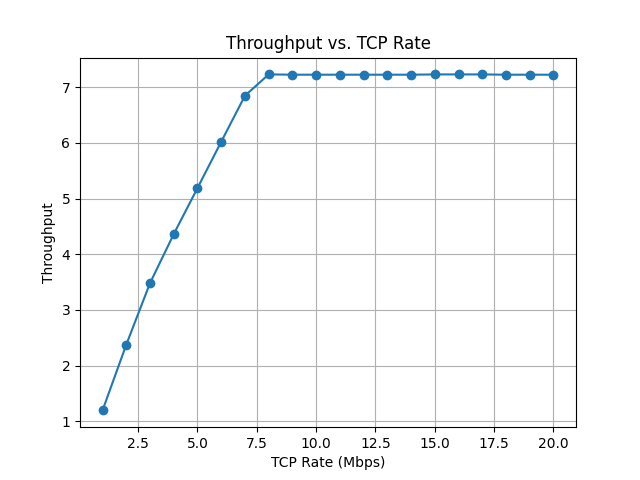
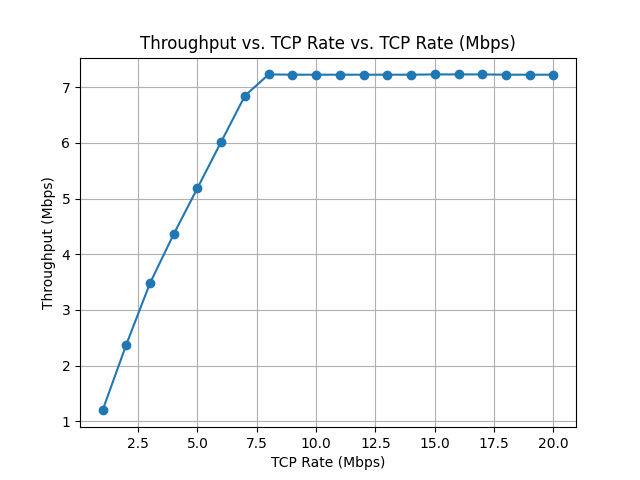
add the figures

Changed region(s): [[0.2188, 0.0625, 0.8125, 0.125], [0.0625, 0.375, 0.0938, 0.6562]]

diff --git a/experiment/01_result/data_process.py b/experiment/01_result/data_process.py
@@ -51,12 +51,24 @@ def process_data(data, qos_parameter):
 
 def plot_figure(x, y, xlabel, ylabel, title, filename):
     plt.plot(x, y, marker='o')
-    plt.xlabel(xlabel)
-    plt.ylabel(ylabel)
-    plt.title(title)
+    plt.xlabel(f'{xlabel} (Mbps)')
+    plt.ylabel(f'{ylabel}')
+    plt.title(f'{title} vs. {xlabel} (Mbps)')
     plt.grid(True)
     plt.savefig(filename)
     plt.close()
+
+def get_unit(qos_parameter):
+    if qos_parameter == 'Throughput':
+        return 'Mbps'
+    elif qos_parameter == 'Transmission Delay':
+        return 'e+07ns'
+    elif qos_parameter == 'Packet Loss Rate':
+        return ''
+    elif qos_parameter == 'Jitter':
+        return 'ns'
+    else:
+        return 'units'
 
 if __name__ == "__main__":
     file_path = "ATCN-Program-Tcprate.txt"
@@ -64,5 +76,6 @@ if __name__ == "__main__":
     #print(data)
     for qos_parameter in ['Throughput', 'Transmission Delay', 'Packet Loss Rate', 'Jitter']:
         tcp_rates, qos_values = process_data(data, qos_parameter)
+        unit = get_unit(qos_parameter)  # Implement get_unit function based on your requirements
         plot_filename = f'{qos_parameter}_vs_TCP_Rate.png'
-        plot_figure(tcp_rates, qos_values, 'TCP Rate (Mbps)', qos_parameter, f'{qos_parameter} vs. TCP Rate', plot_filename)
+        plot_figure(tcp_rates, qos_values, 'TCP Rate', f'{qos_parameter} ({unit})', f'{qos_parameter} vs. TCP Rate', plot_filename)
